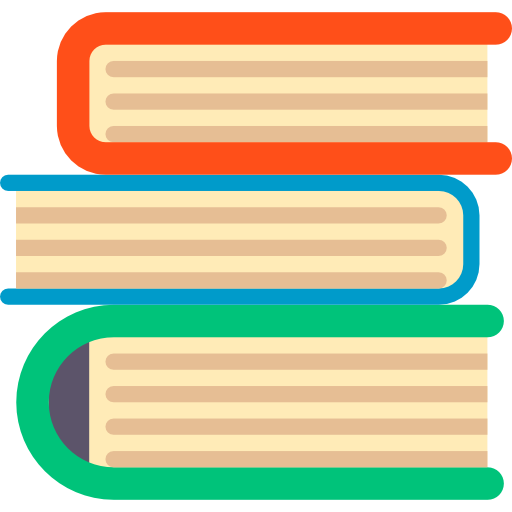
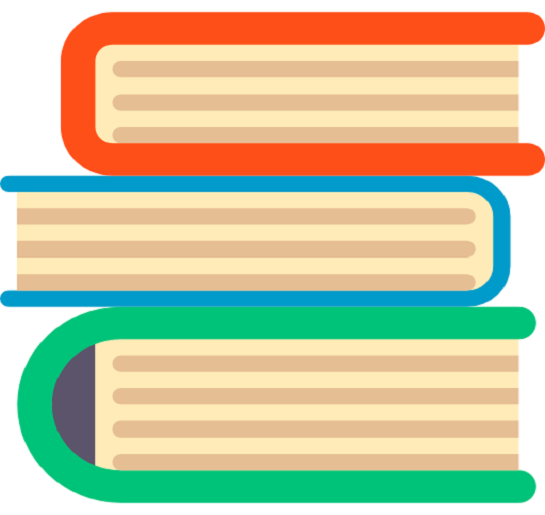
Added certifficate section and resized pictures under the projects page

diff --git a/index.html b/index.html
@@ -1,8 +1,9 @@
 <!DOCTYPE html>
 <html lang="en">
 <head>
-  <title>Personal Portfolio</title>
   <meta charset="UTF-8">
+
+  <title>Personal Portfolio</title>
   <meta name="viewport" content="width=device-width, initial-scale=1.0">
   <link rel="stylesheet" href="css/style.css" type="text/css">
   <link rel="stylesheet" href="css/skin/pink.css" type="text/css">
@@ -32,12 +33,12 @@
 
         </span>
       </div>
-      <!-- nav -->
+      <!-- nav --> 
 
       <ul class="nav">
         <li><a href="#home" class="active"><i class="fa fa-home"></i>Home</a></li>
         <li><a href="#about"><i class="fa fa-user"></i>About</a></li>
-        <li><a href="#service"><i class="fa fa-list"></i>Service</a></li>
+        <li><a href="#service"><i class="fa fa-list"></i>Skills</a></li>
         <li><a href="#projects"><i class="fa fa-tasks"></i>Projects</a></li>
         <li><a href="#contact"><i class="fa fa-comments"></i>Contact</a></li>
       </ul>
@@ -87,7 +88,7 @@
                 <div class="about-text padd-15">
                   <h3>My Name is Boipelo  Phiri and I am <span> Junior Software Developer</span></h3>
                   <p>
-                    I have a Bachelor’s Degree in Computer Engineering. During this year I have interned in the ICT department at 
+                    I have a Bachelor’s Degree in Computer Engineering. During the 2019 year I have interned in the ICT department at 
                     The National Consumer Tribunal. This tenure has provided invaluable insight in the effective operation of
                     developing and creating software solutions for a wide range of industries and providing support in the
                     technical areas of the ICT department. I am ready to take this knowledge in a new direction such as the one
@@ -109,22 +110,22 @@
                       <p>Age : <span> TwentySomething</span></p>
                     </div> -->
                     <div class="info-item padd-15">
-                      <p>Website : <span> www.domain.co.za</span></p>
+                      <p>Email: <span>Boipeloaphiri@gmail.com</span></p>
                     </div>
                     <div class="info-item padd-15">
                       <p>Degree: <span> BSC Information Technology</span></p>
                     </div>
                     <div class="info-item padd-15">
-                      <p>Email: <span>Boipeloaphiri@gmail.com</span></p>
+                      <p>Phone: <span> 078 187 7042</span></p>
                     </div>
                     <div class="info-item padd-15">
-                      <p>Phone: <span> 078 187 7042</span></p>
+                      <p>Github : <span> <a href="https://github.com/BoipeloP2" target="_blank" >BoipeloP2</a></span></p>
                     </div>
                     <div class="info-item padd-15">
                       <p>City: <span> Pretoria</span></p>
                     </div>
                     <div class="info-item padd-15">
-                      <p>Employment: <span> Unemployment </span></p>
+                      <p>Employment: <span> Actively Looking </span></p>
                     </div>
                   </div>
                   <div class="row">
@@ -270,13 +271,60 @@
                 </div>
               </div>
               <!-- End : Education and Experience -->
+
+              <!-- Start :Certificates -->
+              <div class="row">
+                <div class="education padd-15">
+                  <h3 class="title">Certificate</h3>
+                  <div class="row">
+                    <div class="timeline-box padd-15">
+                     <div class="timeline shadow-dark">
+                       <!-- Start: Timeline Items -->
+                       <div class="timeline-item">
+                         <div class="circle-dot"></div>
+                          <h6 class="timeline-date">
+                          <i class="fa fa-calendar"></i>February - 2020
+                          </h6>
+                         <h4 class="timeline-title">C# Tutorial</h4>
+                         <p class="timeline-text">-With the focus on Basics, Data Types, Control Structures, Loops, Methods, Object-Oriented Programming, Encapsulation, Inheritance,</p>
+                          <p>View</p>
+                        </div>   
+                       <!-- End: Timeline Items -->
+
+                        <!-- Start: Timeline Items -->
+                        <div class="timeline-item">
+                          <div class="circle-dot"></div>
+                           <h6 class="timeline-date">
+                           <i class="fa fa-calendar"></i>February - 2020
+                           </h6>
+                          <h4 class="timeline-title">SQL Fundamentals</h4>
+                           <p class="timeline-text">-With the focus on fundamentals of the Structured Query Language</p>
+                        </div>   
+                        <!-- End: Timeline Items -->
+                          <!-- Start: Timeline Items -->
+                          <div class="timeline-item">
+                            <div class="circle-dot"></div>
+                             <h6 class="timeline-date">
+                             <i class="fa fa-calendar"></i>March - 2020
+                             </h6>
+                            <h4 class="timeline-title">Javascript Tutorial</h4>
+                             <p class="timeline-text">-With the introduction to Javascript Fundamentals and making website interactive</p>
+                          </div>   
+                          <!-- End: Timeline Items -->
+
+                     </div>
+                    </div>
+                  </div>
+                </div>
+
+              <!-- End : Certificates -->
             </div>
             <!-- Start : Technical skills -->
-            <div class="row">
+            <!-- <div class="row">
               <div class="skills padd-15">
             <h3 class="title-h3 padd-15">skill</h3>
               </div>
-            </div>
+            </div> -->
 
             <!-- End : Technical skills -->
 
@@ -293,7 +341,7 @@
         <div class="container">
           <div class="row">
             <div class="section-title padd-15">
-              <h2>Services</h2>   
+              <h2>Skills</h2>   
             </div>
           </div>
           <div class="row">
@@ -388,9 +436,10 @@
                   <div class="blog-info">
                     <h4 class="blog-title">Weather Web App</h4>
                     <p class="blog-description">I developed this project as a learning curve in order to gain knowledge
-                       in Jquery and understand how it works with API, I have used a Weather API from ???
+                       in Jquery and understand how it works with API, I have used a Weather API from OpenWeatherMap.
                     </p>
-                    <p class="blog-tags">Tags: <a href="">Jquery</a> , <a href="">Html & Css</a> <a href="">API</a></p>
+                    <p class="blog-link">Link: <a href="https://boipelop2.github.io/weatherApp/" target="_blank">WeatherApp</a> </p>
+                    <p class="blog-tags">Tags: <a hre f="">Jquery</a> , <a href="">Html & Css</a> <a href="">API</a></p>
                   </div>
                 </div>
               </div>
@@ -410,6 +459,7 @@
                       that enables a user to search for random articles from wiki 
                       by just type the word of what they would to read about.
                     </p>
+                    <p class="blog-link">Link: <a href="https://boipelop2.github.io/todolist/" target="_blank">TodoWebApp</a> </p>
                     <p class="blog-tags">Tags: <a href="">Jquery</a> , <a href="">Html & Css</a> <a href="">API</a></p>
 
                   </div>
@@ -431,6 +481,7 @@
                           that enables a user to search for random articles from wiki 
                           by just type the word of what they would to read about.
                         </p>
+                    <p class="blog-link">Link: <a href="https://boipelop2.github.io/Wikiapp/" target="_blank">WikiWebApp</a> </p>
                     <p class="blog-tags">Tags: <a href="">Jquery</a> , <a href="">Html & Css</a> <a href="">API</a></p>
                       </div>
                     </div>

diff --git a/css/style.css b/css/style.css
@@ -758,7 +758,19 @@ input,textarea,select{
   font-weight: 600;
 }
 
+.blog .blog-item-inner .blog-info .blog-link{
+  font-size: 16px;
+  line-height: 25px;
+  color: #504e70;
+  font-weight: 400;
+  text-transform: capitalize;
+  margin-bottom: 10px;
 
+}
+.blog .blog-item-inner .blog-info .blog-link a{
+  text-decoration: none;
+  font-weight: 600;
+}
 /* End : Blog Section */
 
 

diff --git a/css/skin/blue.css b/css/skin/blue.css
@@ -11,6 +11,7 @@
 }
 .contact .contact-info-item .icon .fa,
 .blog .blog-item-inner .blog-info .blog-tags a,
+.blog .blog-item-inner .blog-info .blog-link a,
 .service .service-item .service-item-inner .icon .fa,
 .about .about-content .about-text h3 span,
 .aside .nav li a:hover,

diff --git a/css/skin/pink.css b/css/skin/pink.css
@@ -11,6 +11,7 @@
 }
 .contact .contact-info-item .icon .fa,
 .blog .blog-item-inner .blog-info .blog-tags a,
+.blog .blog-item-inner .blog-info .blog-link a,
 .service .service-item .service-item-inner .icon .fa,
 .about .about-content .about-text h3 span,
 .aside .nav li a:hover,
